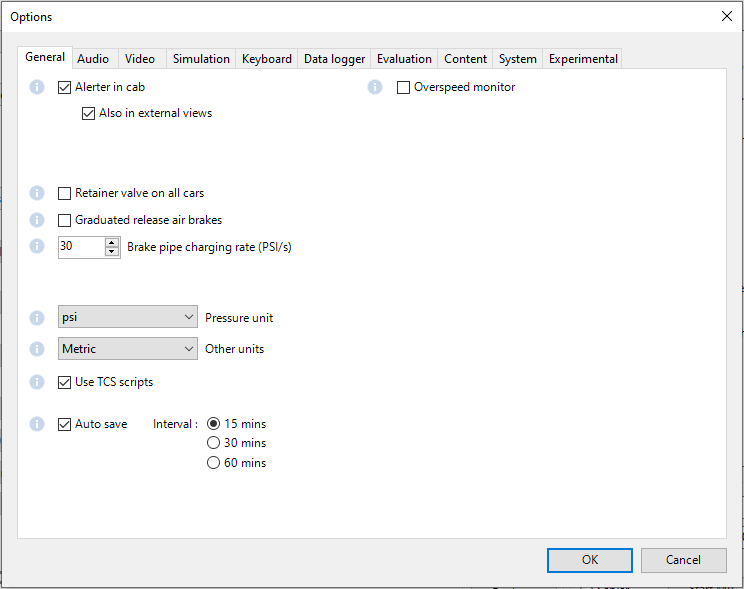
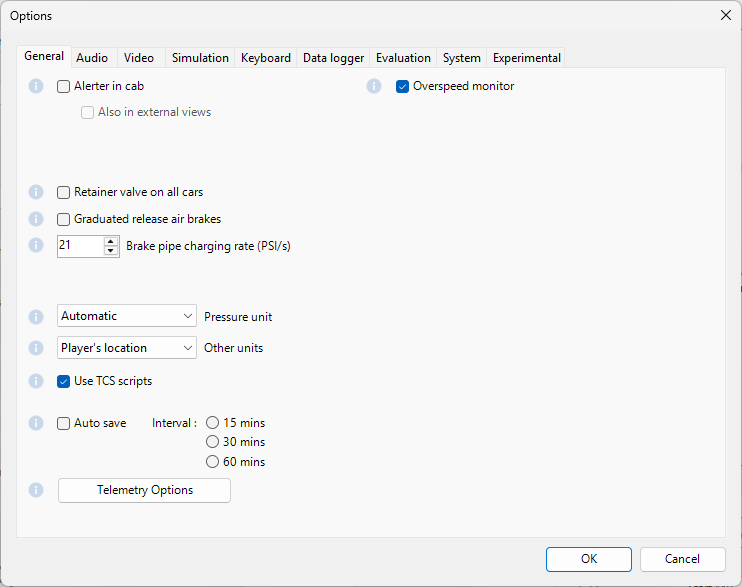
docs: Add telemetry options section to manual

diff --git a/Source/Documentation/Manual/options.rst b/Source/Documentation/Manual/options.rst
@@ -129,6 +129,40 @@ Otherwise, if the loco has an Overspeed Monitor specified in its ENG file, then 
 
 This monitor is enabled by checking the option.
 
+
+.. _telemetry:
+
+Telemetry
+---------
+
+.. image:: images/options-telemetry.png
+
+These options let you choose which (if any) anonymous data collection types you would like to enable, preview the data that will be collected, and visit the `telemetry server and source code <https://telemetry.openrails.org>`_.
+
+Each anonymous data collection type can be set to:
+
+- **Undecided (off)** - (default) no data is collected or sent, but we may ask if you want to participate via :ref:`notifications`
+- **Off** - no data is collected or sent
+- **On** - data is collected and sent automatically
+
+There is no option to allow you to check through the collected data before it is sent.
+
+Application, runtime, operating system, and hardware properties
+'''''''''''''''''''''''''''''''''''''''''''''''''''''''''''''''
+
+This anonymous data collection type can be previewed to see what will be sent; for example::
+
+  Application = Open Rails U2025.01.31-1152 (X64)
+  Runtime     = .NET Framework 4.8.9290.0
+  System      = Microsoft Windows 11 Home 10.0.26100 (X64; en-GB; en-GB,en-US,ja-JP)
+  Memory      = 32,592 MB
+  CPU         = 12th Gen Intel(R) Core(TM) i7-1255U (GenuineIntel; 12 threads; 2,600 MHz)
+  GPU         = Intel(R) Iris(R) Xe Graphics (Intel Corporation; 128 MB)
+  Direct3D    = 12_1,12_0,11_1,11_0,10_1,10_0,9_3,9_2,9_1
+
+This is also included at the start of every :ref:`log file <driving-logfile>`.
+
+
 Audio Options
 =============
 
